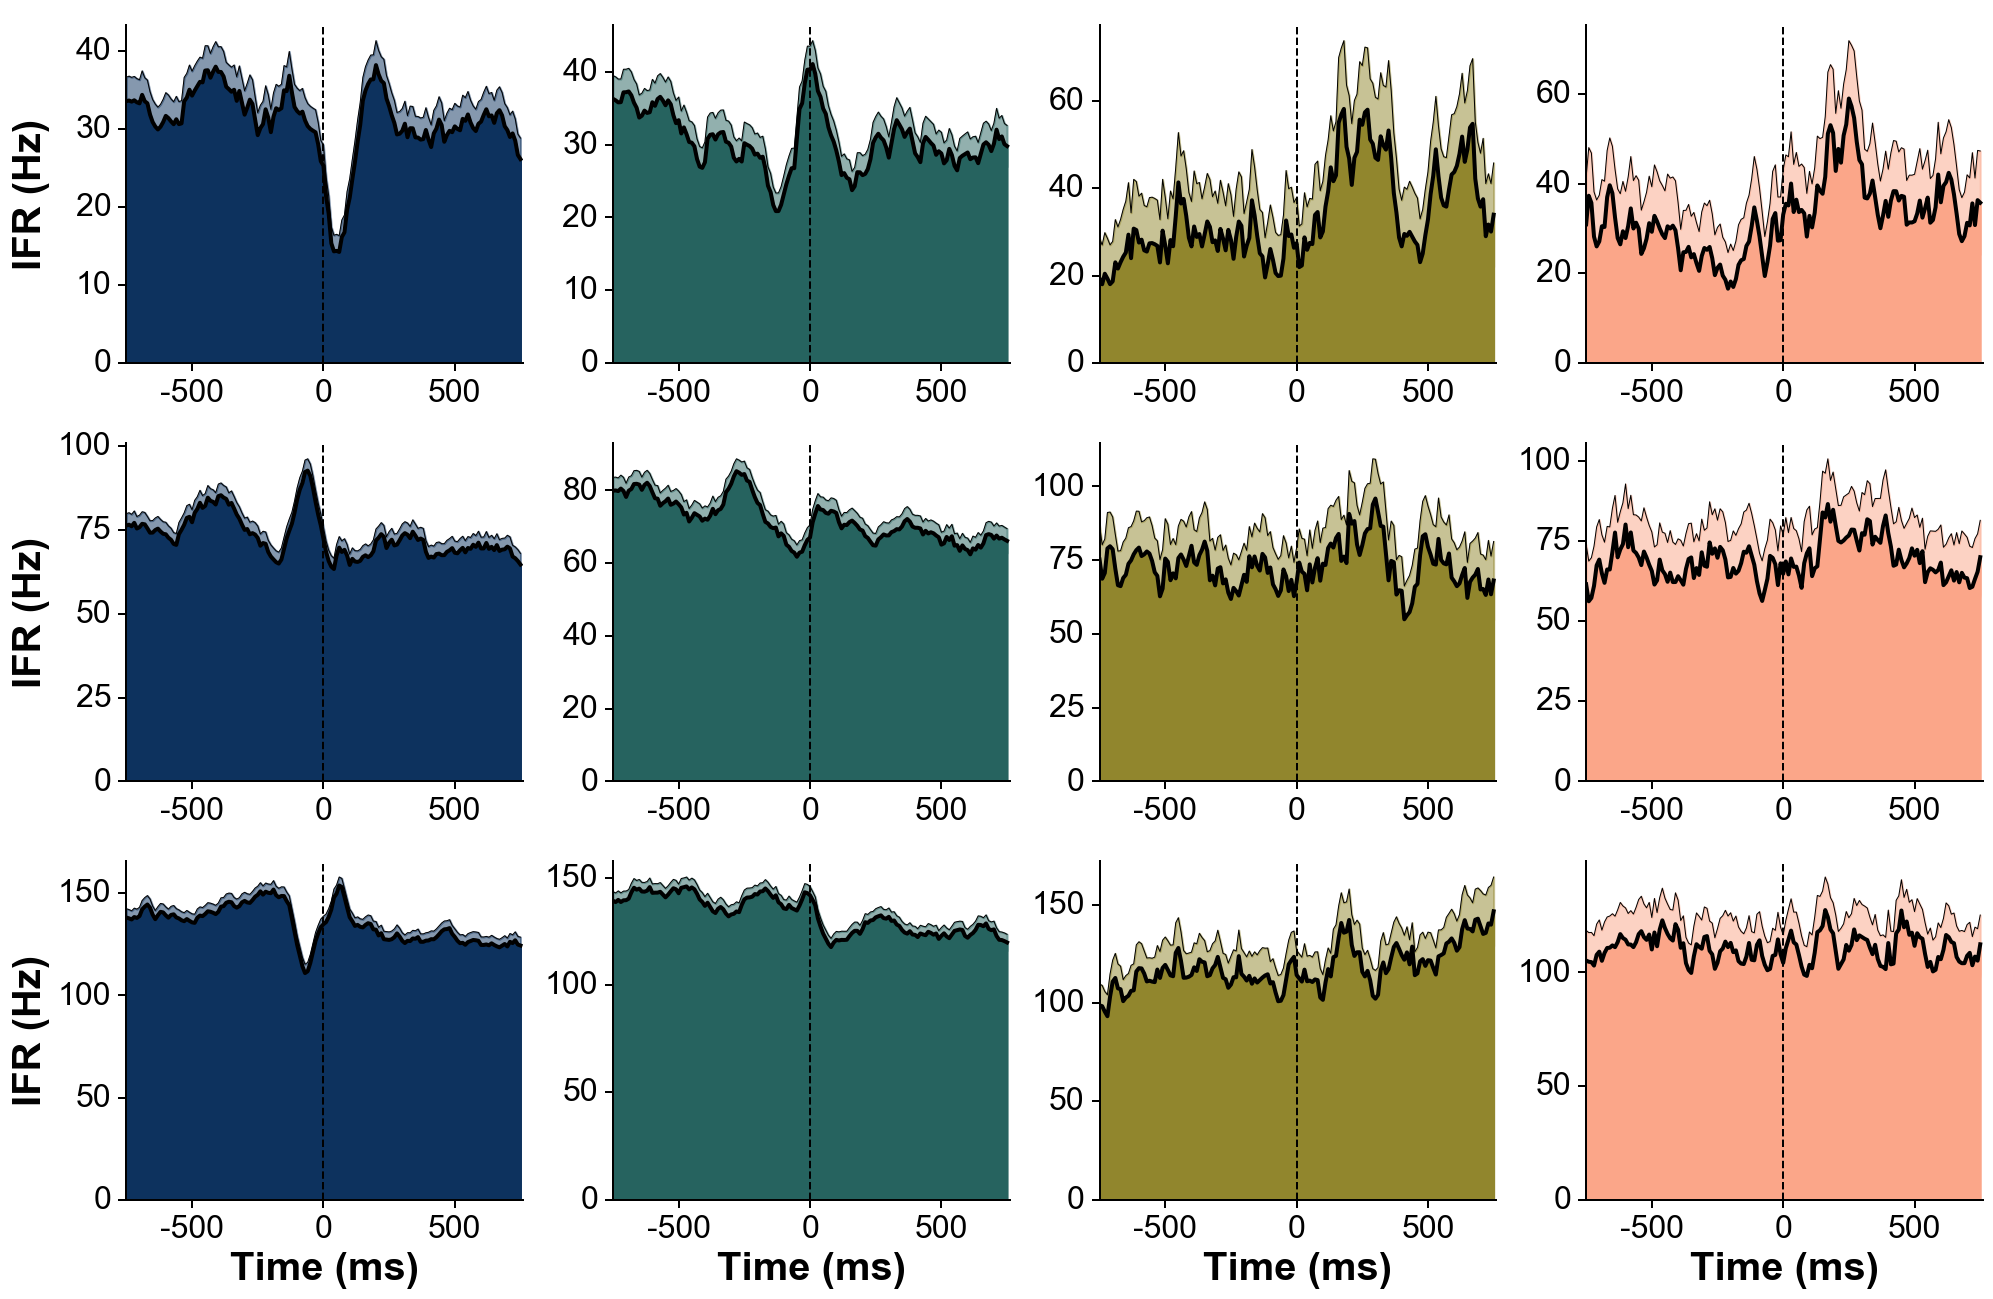
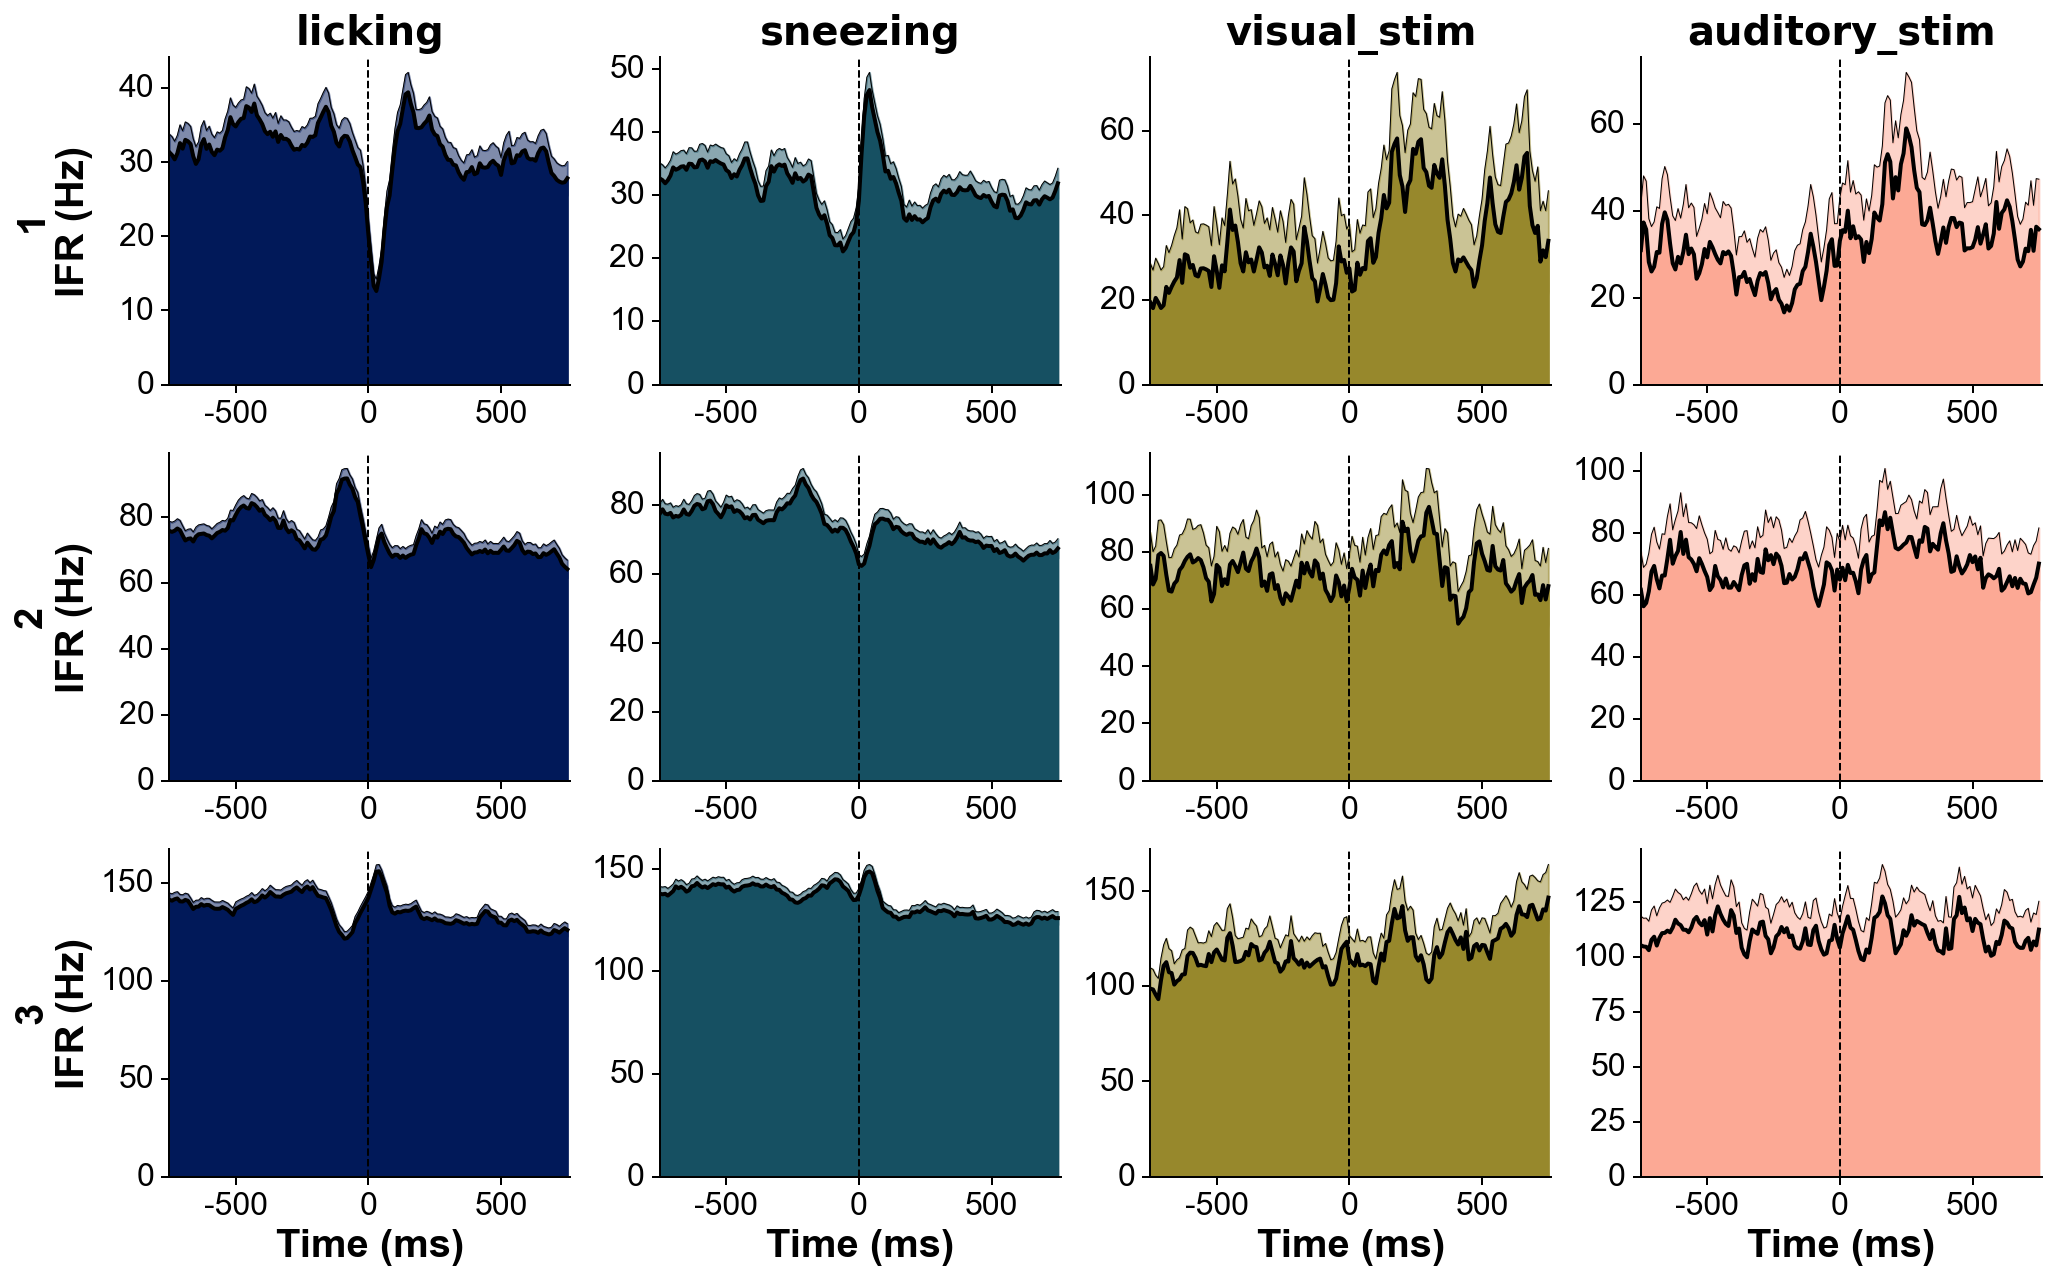
readme fix

diff --git a/README.md b/README.md
@@ -137,10 +137,11 @@ plot_raw_units(dp, times=[0,0.130], units = units, channels = channels,
 ```python
 # Explore responses of 3 neurons to 4 categories of events:
 fs=30000 # Hz
+units=[1,2,3]
 trains=[trn(dp,u)/fs for u in units] # make list of trains of 3 units
-trains_str=['' for u in units] # can give specific names to units here, would show on ht left of each row
-events=[licking, sneezing, visual stimulus, auditory stimulus] # get events corresponding to 4 conditions
-trains_str=['' for e in events] # can give specific names to events here, would show on above each column
+trains_str=units # can give specific names to units here, show on the left of each row
+events=[licks, sneezes, visual_stimuli, auditory_stimuli] # get events corresponding to 4 conditions
+trains_str=['licking', 'sneezing', 'visual_stim', 'auditory_stim'] # can give specific names to events here, show above each column
 events_col='batlow' # colormap from which the event colors will be drawn
 fig=summary_psth(trains, trains_str, events, events_str, psthb=10, psthw=[-750,750],
                  zscore=0, bsl_subtract=False, bsl_window=[-3000,-750], convolve=True, gsd=2,
@@ -149,7 +150,7 @@ fig=summary_psth(trains, trains_str, events, events_str, psthb=10, psthw=[-750,7
                  figh=None, figratio=None, transpose=1,
                  as_heatmap=False,  vmin=None, center=None, vmax=None, cmap_str=None)
 ```
-<img src="https://raw.githubusercontent.com/m-beau/NeuroPyxels/master/images/psth.png" width="400"/>
+<img src="https://raw.githubusercontent.com/m-beau/NeuroPyxels/master/images/psth.png" width="600"/>
 
 ### Merge datasets acquired on two probes simultaneously
 ```python
